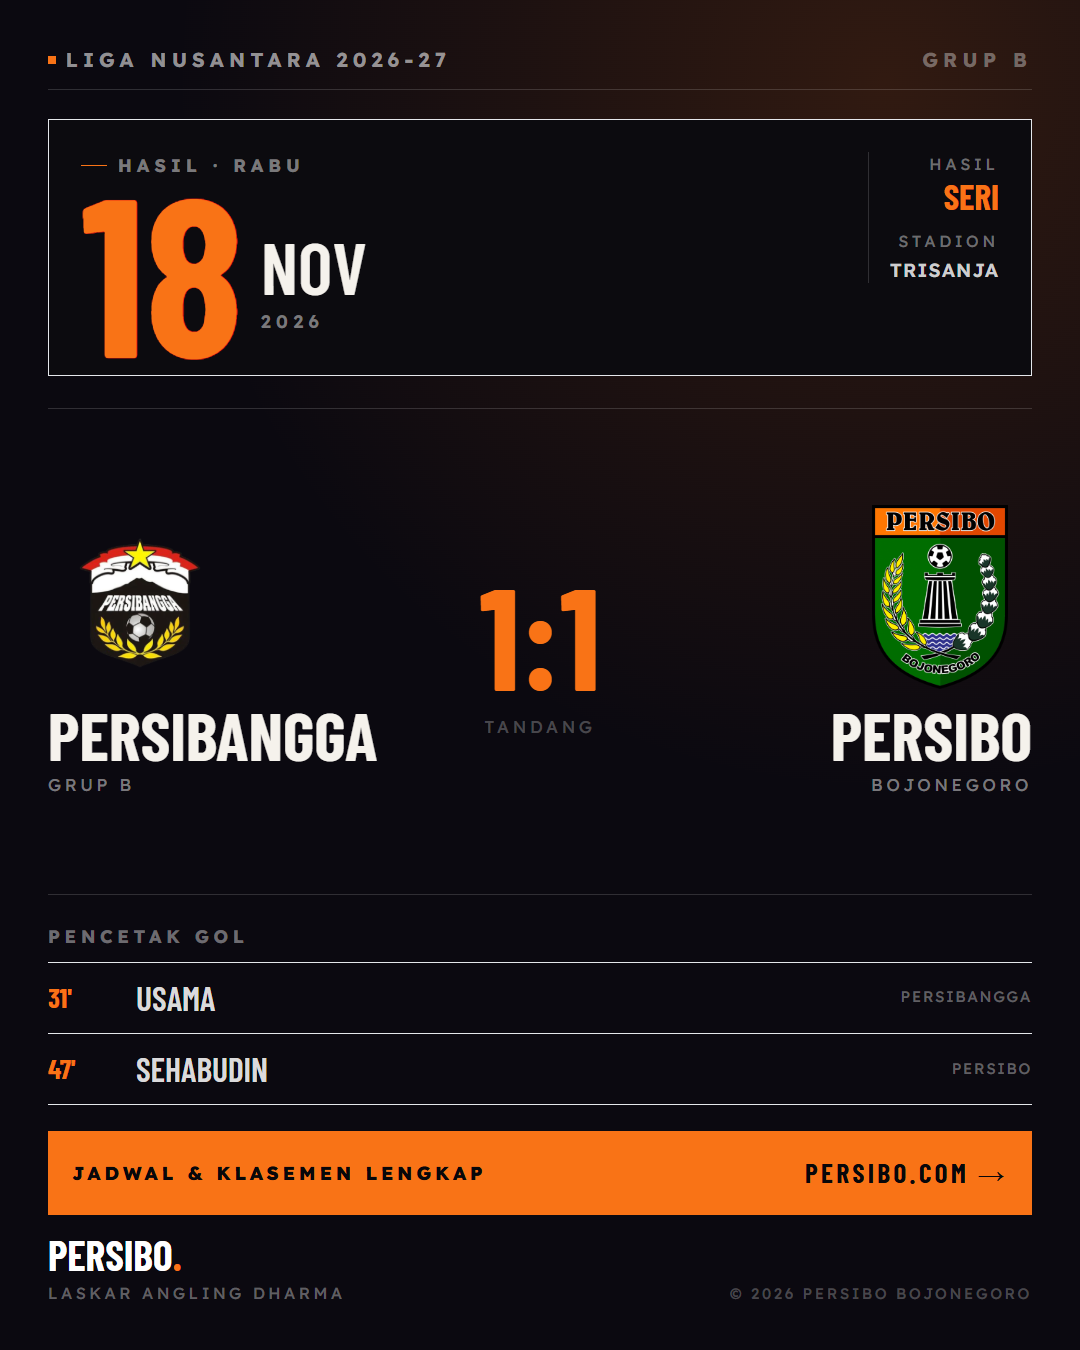
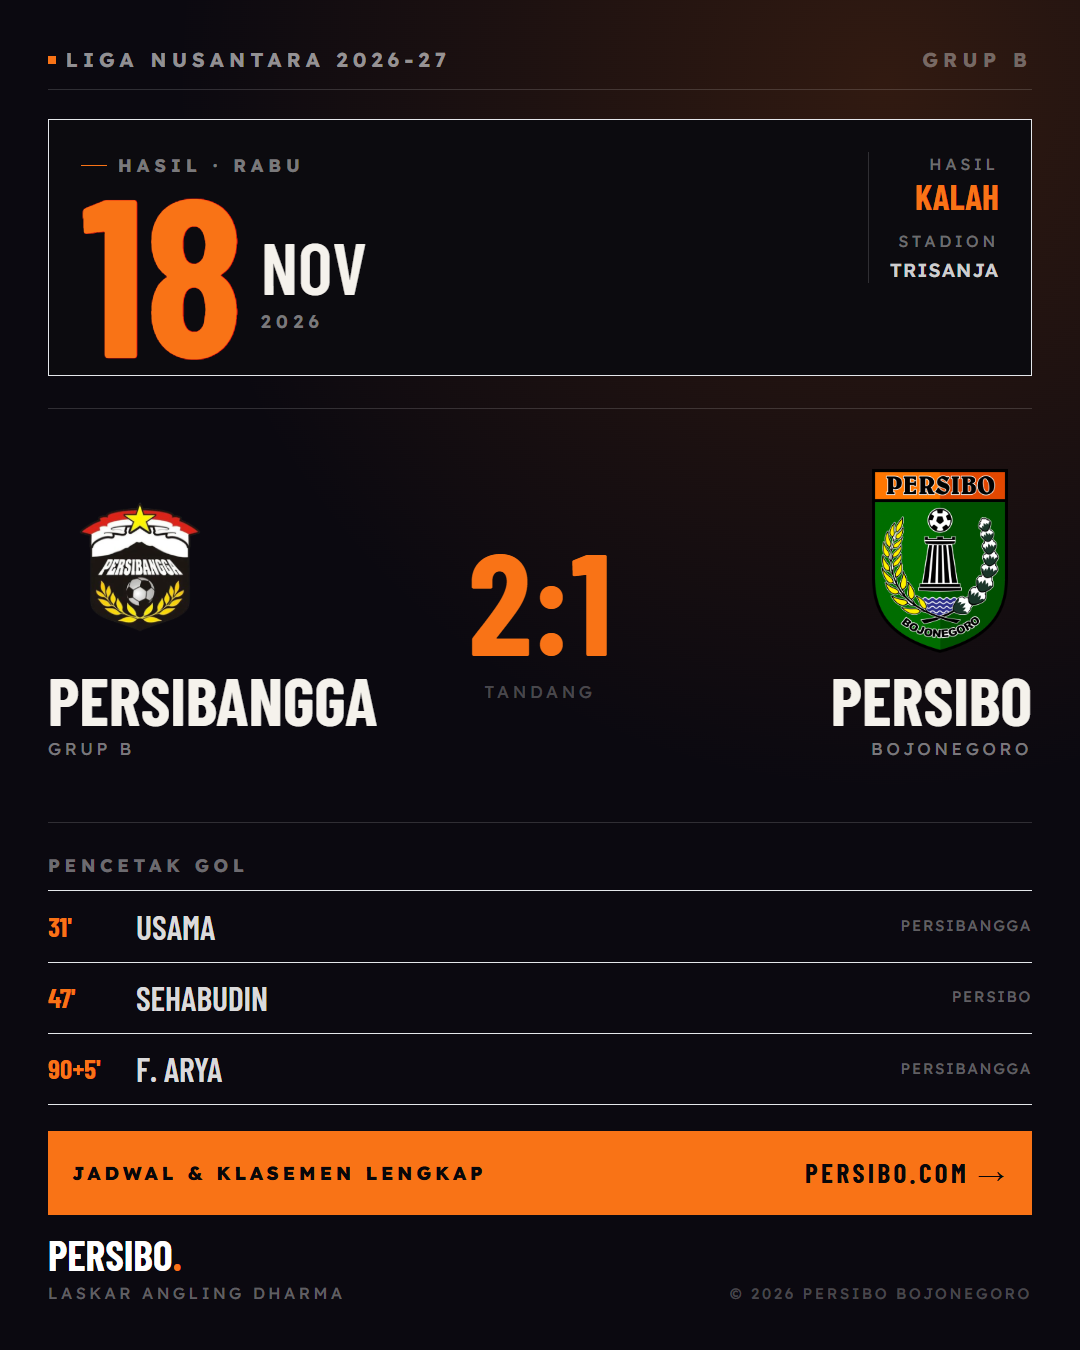
sosmed: hasil Persibangga 2-1 Persibo
- Poster `hasil-persibangga.png` diperbarui: 2-1, gol F. ARYA menit 90+5 setelah SEHABUDIN sempat menyamakan menit 47. Badge jadi KALAH.
- Caption nomor 11 dan CHANGELOG ikut menyesuaikan skor akhir.

diff --git a/CHANGELOG.md b/CHANGELOG.md
@@ -9,7 +9,7 @@ dan proyek ini mengikuti [Semantic Versioning](https://semver.org/lang/id/).
 ### Added
 - Lineup laga 18 November masuk data situs dari e-start list panitia: XI dan cadangan PERSIBANGGA PURBALINGGA serta PERSIBO Bojonegoro, pelatih, dan perangkat laga di `src/data/seasons/2026-27/matchDetails.json`. Halaman `/pertandingan/2026-11-18-persibangga-purbalin-vs-persibo-bojonegoro` menampilkan keduanya sebelum kick-off, skor tetap kosong sampai laga selesai. Entri ditulis tangan, scrape detail berikutnya akan menggantikannya dengan data iLeague. Field `captain` di `MatchDetailPlayer` menandai ANGGER dan ILHAM IRHAZ sebagai badge C di `LineupPitch`; poster lineup memakai `Angger (C)`. Caption di `social/captions.md` nomor 10.
 - Poster `lineup-persibangga.png` dari e-start list 18 November: XI 4-3-3 (A. Fernandi; Angger, Shevanton, Rio Valentino, Rangga; Marvin, M. Syahril, O. Chanigio; Romeo, Sehabudin, Putra Chaniago) + 10 pengganti sampai Jojo #76. Semua nomor punggung cocok dengan `players.json`, jadi foto tidak tertukar; pelatih I Putu Gede Swi Santoso.
-- Poster hasil tandang Persibangga (`hasil-persibangga.png`, 18 November): 1-1, gol USAMA menit 31 dan SEHABUDIN menit 47, badge SERI. Mode `hasil` juga menerima field `babak` untuk poster skor sementara, dengan skor kosong tampil `-:-` abu-abu. Nama klub kini memangkas akhiran PURBALINGGA.
+- Poster hasil tandang Persibangga (`hasil-persibangga.png`, 18 November): 2-1 untuk tuan rumah, gol USAMA menit 31, SEHABUDIN menit 47, dan F. ARYA menit 90+5, badge KALAH. Mode `hasil` juga menerima field `babak` untuk poster skor sementara, dengan skor kosong tampil `-:-` abu-abu. Nama klub kini memangkas akhiran PURBALINGGA.
 - Skuad 2026-27 di `players.json`: 29 pemain PERSIBO Bojonegoro disadur dari halaman klub iLeague (`/clubs/single/liga_nusantara_2026-27/PERSIBO_Bojonegoro`), menggantikan skuad arsip 2025-26 di halaman `/tim` dan `/pemain`. Foto dicerminkan dari `assets.ileague.id` ke `/img/players/` lewat `npm run fetch-assets` (28 dari 29; DIDIK. S belum punya foto di iLeague — URL-nya 404 — jadi `photo_url` dikosongkan agar tampil placeholder, bukan gambar rusak). Label & komentar usang "skuad 2025-26 / pendaftaran belum dibuka" di `/tim`, `/pemain`, `dataLoader`, dan `AGENT.md` diperbarui. Scraper `.scratch/scrape_ileague_2026_27_players.py` (parse → `npm run fetch-assets` → `--finalize`).
 - Berita hasil uji coba terakhir: Persibo 1-1 PSN Ngada, 6 November 2026. Artikel `/tim/berita/persibo-ditahan-imbang-psn-ngada-1-1-uji-coba` memuat gol Wiraja menit 10, rekor pramusim 5-2-2 dari sembilan laga, konteks PSN Ngada sebagai pengganti Persekabpas, target promosi, dan laga pembuka 13 November. Gambar pakai poster hasil yang sudah ada (`/img/persibo-psn-ngada.png`), bukan foto laga lain.
 - Poster hasil uji coba PSN Ngada (`hasil-psn-ngada.png`): skor 1-1, badge Seri, gol Wiraja menit 10. Laga 6 November di `friendlies.json` kini berisi skor dan pencetak gol, jadi beranda menampilkan kartu hasil dan tawaran tiket hilang. `FriendlyScorer.minute` opsional; blok skor mode `hasil` menyerap sisa ruang agar tidak ada pita kosong di atas CTA.

diff --git a/social/captions.md b/social/captions.md
@@ -167,17 +167,17 @@ Tandang pertama: Persibangga vs Persibo, Rabu 18 November, 15.30 WIB, Trisanja, 
 
 ## 11. Poster hasil tandang Persibangga (`hasil-persibangga.png`)
 
-Persibangga 1-1 Persibo.
+Persibangga 2-1 Persibo.
 
-USAMA membuka skor menit 31. SEHABUDIN menyamakan menit 47.
+USAMA membuka skor menit 31. SEHABUDIN menyamakan menit 47. F. ARYA memastikan kemenangan tuan rumah di menit 90+5.
 
-Satu poin dari laga tandang. Skor dan klasemen di persibo.com.
+Persibo pulang tanpa poin. Skor dan klasemen di persibo.com.
 
 #Persibo #PersiboBojonegoro #LaskarAnglingDharma #Bojonegoro #LigaNusantara
 
 ### Versi pendek (story / X)
 
-Hasil akhir: Persibangga 1-1 Persibo. USAMA menit 31, SEHABUDIN menit 47.
+Hasil akhir: Persibangga 2-1 Persibo. USAMA menit 31, SEHABUDIN menit 47, F. ARYA menit 90+5.
 
 ---
 
